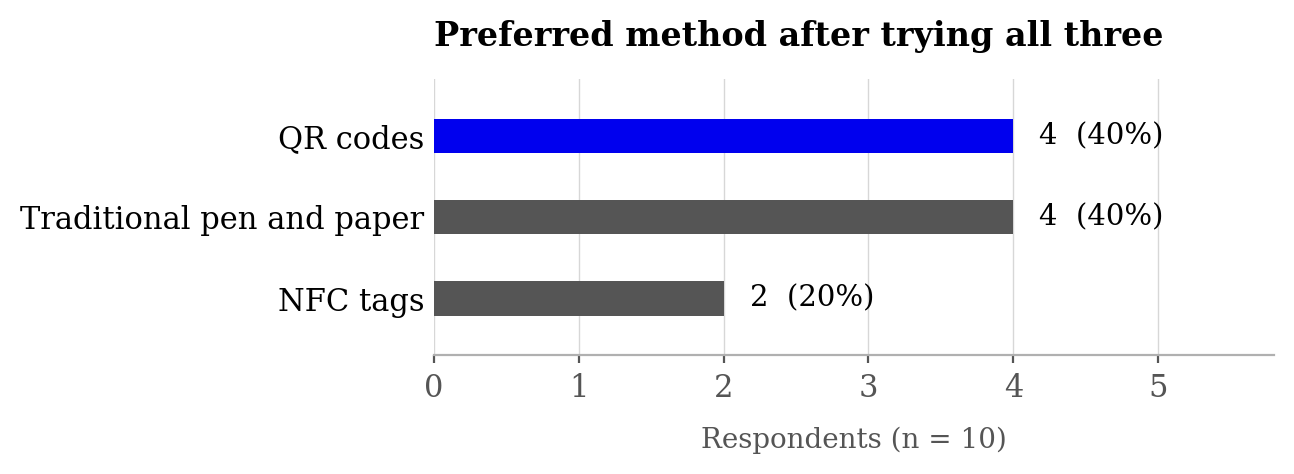
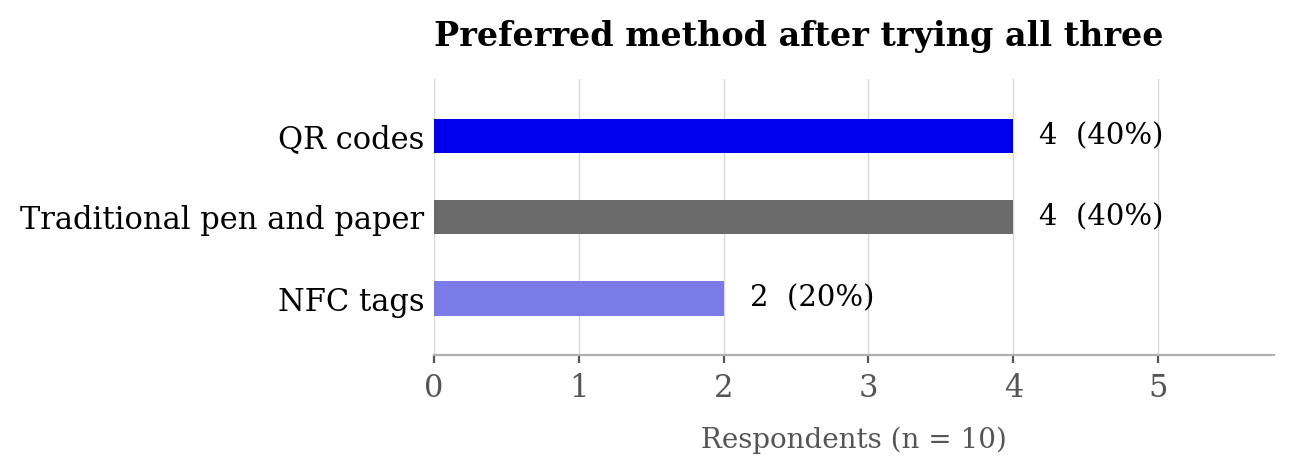
Group QR and NFC by colour, set paper apart
Two shades of one blue for the scanning methods and a neutral grey for
pen and paper, so the reader sees two of a kind and one apart before
reading a label. Applied to both figures and the live benchmark chart;
your own timing is black so it never reads as a fourth method.

Repository URLs filled in.

Changed region(s): [[0.3091, 0.5907, 0.5564, 0.6793]]

diff --git a/docs/index.html b/docs/index.html
@@ -14,7 +14,7 @@
 <p class="sub">Whether scanning a code beats writing on a clipboard when you are recording dosing events, and a small tool that implements the faster of the two.</p>
 <p class="meta">Falak Ameesh Patel &middot; <a href="https://falakpatel.com">falakpatel.com</a></p>
 
-<p><strong><a href="app.html">Open the capture app &rarr;</a></strong> &nbsp; <span class="muted">&middot;</span> &nbsp; <a href="https://github.com/FALAK-GITHUB-USERNAME/qr-nfc-clinical-trials">Source and data on GitHub</a></p>
+<p><strong><a href="app.html">Open the capture app &rarr;</a></strong> &nbsp; <span class="muted">&middot;</span> &nbsp; <a href="https://github.com/falakpat3l/qr-nfc-clinical-trials">Source and data on GitHub</a></p>
 
 <h2>The problem</h2>
 <p>Trial data still gets written on paper. The cost is not the writing &mdash; it is that someone later has to type the same numbers into a computer a second time. That second pass is where the hours and the transcription errors come from, and it is invisible in any measurement that only times the original act of writing.</p>
@@ -96,7 +96,7 @@
 <p>Records stay in your browser's local storage. Nothing is uploaded, and there is no backend to upload to. The camera and NFC both need a secure context, so use this page over HTTPS or on <code>localhost</code>.</p>
 
 <h2>Data and code</h2>
-<p>The observed summaries, the figure-rendering code, the label format and a browser-free test that encodes an event, renders it to a real QR matrix and scans it back are all <a href="https://github.com/FALAK-GITHUB-USERNAME/qr-nfc-clinical-trials">on GitHub</a>. The per-event dataset in that repository is synthetic and labelled as such on every row &mdash; the original per-event readings were not retained, so it exists to let the analysis code run, not as evidence.</p>
+<p>The observed summaries, the figure-rendering code, the label format and a browser-free test that encodes an event, renders it to a real QR matrix and scans it back are all <a href="https://github.com/falakpat3l/qr-nfc-clinical-trials">on GitHub</a>. The per-event dataset in that repository is synthetic and labelled as such on every row &mdash; the original per-event readings were not retained, so it exists to let the analysis code run, not as evidence.</p>
 
 <footer>
 <p class="muted">Falak Ameesh Patel &middot; <a href="https://falakpatel.com">falakpatel.com</a><br>

diff --git a/docs/app.js b/docs/app.js
@@ -378,8 +378,11 @@
     bmRender();
   });
 
-  // Study ranges. Monochrome with one accent: every row is directly labelled,
-  // so colour is not carrying identity here — it only marks which row is yours.
+  // Study ranges. Colour carries one idea: QR and NFC are two shades of the
+  // same blue because they are the same kind of answer, and pen and paper is a
+  // neutral grey because it is not. Your own measurement is black, so it never
+  // reads as a fourth method. Every row is directly labelled as well, so nothing
+  // here depends on colour alone.
   var STUDY = [
     { key: "qr",    label: "QR codes",    lo: 1, hi: 3 },
     { key: "nfc",   label: "NFC tags",    lo: 3, hi: 6 },
@@ -389,12 +392,13 @@
   function renderChart() {
     var st = bmStats();
     var rows = STUDY.map(function (r) {
-      return { label: r.label, lo: r.lo, hi: r.hi, you: false };
+      return { key: r.key, label: r.label, lo: r.lo, hi: r.hi, you: false };
     });
     if (st) {
       var m = $("#bm-method");
       var name = m.options[m.selectedIndex].text;
-      rows.push({ label: "You — " + name, lo: st.lo, hi: st.hi, mean: st.mean, you: true });
+      rows.push({ key: "you", label: "You — " + name,
+                  lo: st.lo, hi: st.hi, mean: st.mean, you: true });
     }
 
     var W = 640, rowH = 34, padL = 150, padR = 60, padT = 8, padB = 30;
@@ -422,7 +426,7 @@
                 (r.mean != null ? " (mean " + r.mean.toFixed(1) + " s)" : "");
       parts.push('<g class="mark' + (r.you ? " you" : "") + '">');
       parts.push("<title>" + esc(tip) + "</title>");
-      parts.push('<rect class="bar' + (r.you ? " you" : "") + '" x="' + x(r.lo) +
+      parts.push('<rect class="bar ' + r.key + '" x="' + x(r.lo) +
                  '" y="' + (cy - 5) + '" width="' + w + '" height="10" rx="4"/>');
       parts.push('<text x="' + (padL - 10) + '" y="' + (cy + 5) +
                  '" text-anchor="end">' + esc(r.label) + "</text>");

diff --git a/docs/app.html b/docs/app.html
@@ -13,7 +13,7 @@
 <p class="meta"><small><a href="./">&larr; Back to the write-up</a></small></p>
 <h1>Capture app</h1>
 <p class="sub">Record a dosing event by scanning it, instead of writing it down and typing it up later.</p>
-<p class="meta"><small>Everything stays in this browser. Nothing is uploaded, and there is no server to upload it to. &middot; <a href="https://github.com/FALAK-GITHUB-USERNAME/qr-nfc-clinical-trials">Source</a></small></p>
+<p class="meta"><small>Everything stays in this browser. Nothing is uploaded, and there is no server to upload it to. &middot; <a href="https://github.com/falakpat3l/qr-nfc-clinical-trials">Source</a></small></p>
 
 <nav class="tabs" role="tablist" aria-label="Sections">
   <button role="tab" data-tab="generate"  aria-current="true">Generate</button>
@@ -120,7 +120,7 @@
 
   <h3>Your result against the study</h3>
   <div class="chart" id="bm-chart"></div>
-  <p class="note">Grey bars are the ranges observed in the study. The blue bar is you. Hover a bar for its numbers.</p>
+  <p class="note">Blue bars are the two scanning methods, grey is pen and paper, black is you. Hover a bar for its numbers.</p>
 </section>
 
 <!-- ------------------------------------------------------------------ -->

diff --git a/docs/style.css b/docs/style.css
@@ -72,13 +72,17 @@ li { margin-bottom: 5px }
 /* Benchmark chart */
 .chart { margin: 8px 0 13px }
 .chart .track { fill: none }
-.chart .bar { fill: #555555 }
-.chart .bar.you { fill: #0000ee }
+/* QR and NFC are two shades of one hue because they are the same kind of
+   answer; paper is neutral grey because it is not. Your own measurement is
+   black, so it never reads as a fourth method. */
+.chart .bar.qr    { fill: #0000ee }
+.chart .bar.nfc   { fill: #7b7be8 }
+.chart .bar.paper { fill: #6b6b6b }
+.chart .bar.you   { fill: #000000 }
 .chart text { font: 14px/1 "Times New Roman", Times, serif; fill: #000000 }
 .chart text.axis { fill: #555555 }
 .chart .grid { stroke: #e2e2e2; stroke-width: 1 }
-.chart g.mark:hover .bar { fill: #000000 }
-.chart g.mark.you:hover .bar { fill: #0000ee }
+.chart g.mark:hover .bar { opacity: .72 }
 
 .big { font-size: 22px; font-weight: bold; font-variant-numeric: tabular-nums }
 

diff --git a/analysis/make_figures.py b/analysis/make_figures.py
@@ -2,11 +2,13 @@
 Render the two figures used in the README and on the project page.
 
 Design notes (deliberate, not defaults):
-  * The figures are monochrome with a single accent, matching the project page.
-    There is no categorical colour encoding here at all - every category is
-    directly labelled on the y axis, so identity is carried by position and text,
-    not by hue. That is why no categorical palette is defined or validated: the
-    accent marks the headline arm (QR), nothing more.
+  * Colour carries one idea only: QR and NFC are two shades of the same blue
+    because they are the same kind of answer, and pen and paper is a neutral
+    grey because it is not. The reader should see two of these grouped and one
+    apart before reading a single label.
+  * Every category is also directly labelled on the y axis, so identity never
+    depends on colour alone. The three fills separate by lightness as well as
+    hue, so the grouping survives colour-vision deficiency and greyscale print.
   * Axes and grid are recessive. No frame, no chartjunk, no value on every mark.
   * Output is SVG for the web page and PNG for the README, since GitHub's
     markdown renderer is unreliable with SVG.
@@ -27,8 +29,15 @@ OUT = ROOT / "analysis" / "figures"
 INK = "#000000"
 MUTED = "#555555"
 RECESSIVE = "#b0b0b0"
-ACCENT = "#0000ee"
 SURFACE = "#ffffff"
+
+# QR and NFC: one hue, two shades - the same class of answer.
+# Paper: neutral grey - deliberately outside that family.
+ARM_COLOR = {
+    "qr":    "#0000ee",
+    "nfc":   "#7b7be8",
+    "paper": "#6b6b6b",
+}
 
 plt.rcParams.update({
     "font.family": "serif",
@@ -64,7 +73,7 @@ def fig_user_acceptance():
     labels = [r["label"] for r in rows]
     counts = [int(r["respondents"]) for r in rows]
     shares = [int(r["share_percent"]) for r in rows]
-    colors = [ACCENT if r["method"] == "qr" else MUTED for r in rows]
+    colors = [ARM_COLOR[r["method"]] for r in rows]
 
     fig, ax = plt.subplots(figsize=(6.6, 2.5), dpi=200)
     bars = ax.barh(labels, counts, height=0.42, color=colors, zorder=3)
@@ -96,7 +105,7 @@ def fig_capture_time():
     labels = [r["label"] for r in rows]
     lo = [float(r["min_seconds"]) for r in rows]
     hi = [float(r["max_seconds"]) for r in rows]
-    colors = [ACCENT if r["method"] == "qr" else MUTED for r in rows]
+    colors = [ARM_COLOR[r["method"]] for r in rows]
 
     fig, ax = plt.subplots(figsize=(6.6, 2.5), dpi=200)
     y = range(len(labels))

diff --git a/README.md b/README.md
@@ -4,7 +4,7 @@ A study of whether scanning a code beats writing on a clipboard when you are
 recording dosing events in a trial, and a small offline web app that implements
 the faster of the two.
 
-**[Read the write-up →](https://FALAK-GITHUB-USERNAME.github.io/qr-nfc-clinical-trials/)** · **[Open the capture app →](https://FALAK-GITHUB-USERNAME.github.io/qr-nfc-clinical-trials/app.html)**
+**[Read the write-up →](https://falakpat3l.github.io/qr-nfc-clinical-trials/)** · **[Open the capture app →](https://falakpat3l.github.io/qr-nfc-clinical-trials/app.html)**
 
 ---
 
@@ -136,7 +136,7 @@ backend to upload to.
 ### Running it
 
 ```bash
-git clone https://github.com/FALAK-GITHUB-USERNAME/qr-nfc-clinical-trials.git
+git clone https://github.com/falakpat3l/qr-nfc-clinical-trials.git
 cd qr-nfc-clinical-trials
 python3 -m http.server 8000 --directory docs
 ```
